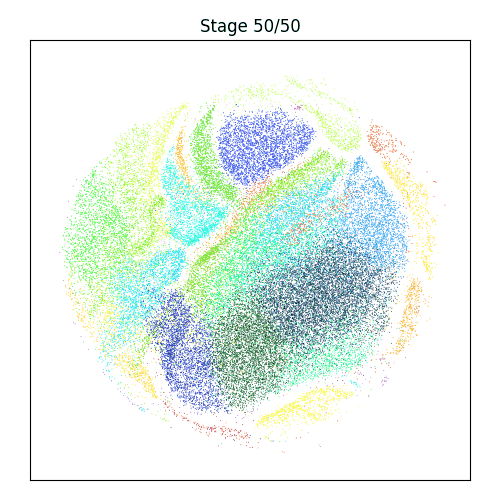
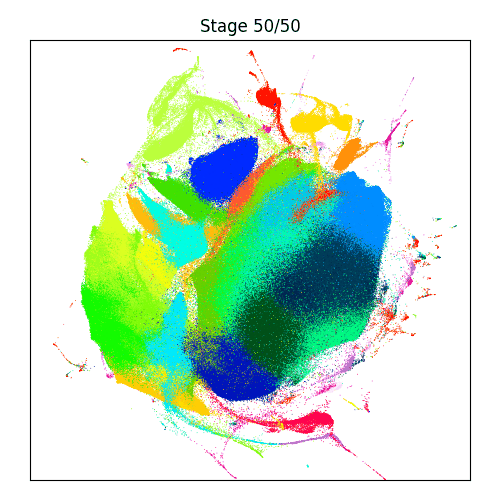
replace to new gif

diff --git a/index.html b/index.html
@@ -45,7 +45,7 @@
             <a href="https://www.nature.com/articles/ncomms14049">Zheng et al.</a>
             <button type="button" aria-controls="zheng-animation"
                     data-gif="assets/figures/zheng-interpolated.gif">Play</button>
-            <span class="dataset-details">50,000 of 1,306,127 cells, 50 PCs</span>
+            <span class="dataset-details">1,306,127 cells, 50 PCs</span>
           </figcaption>
         </figure>
         <figure class="animation">
